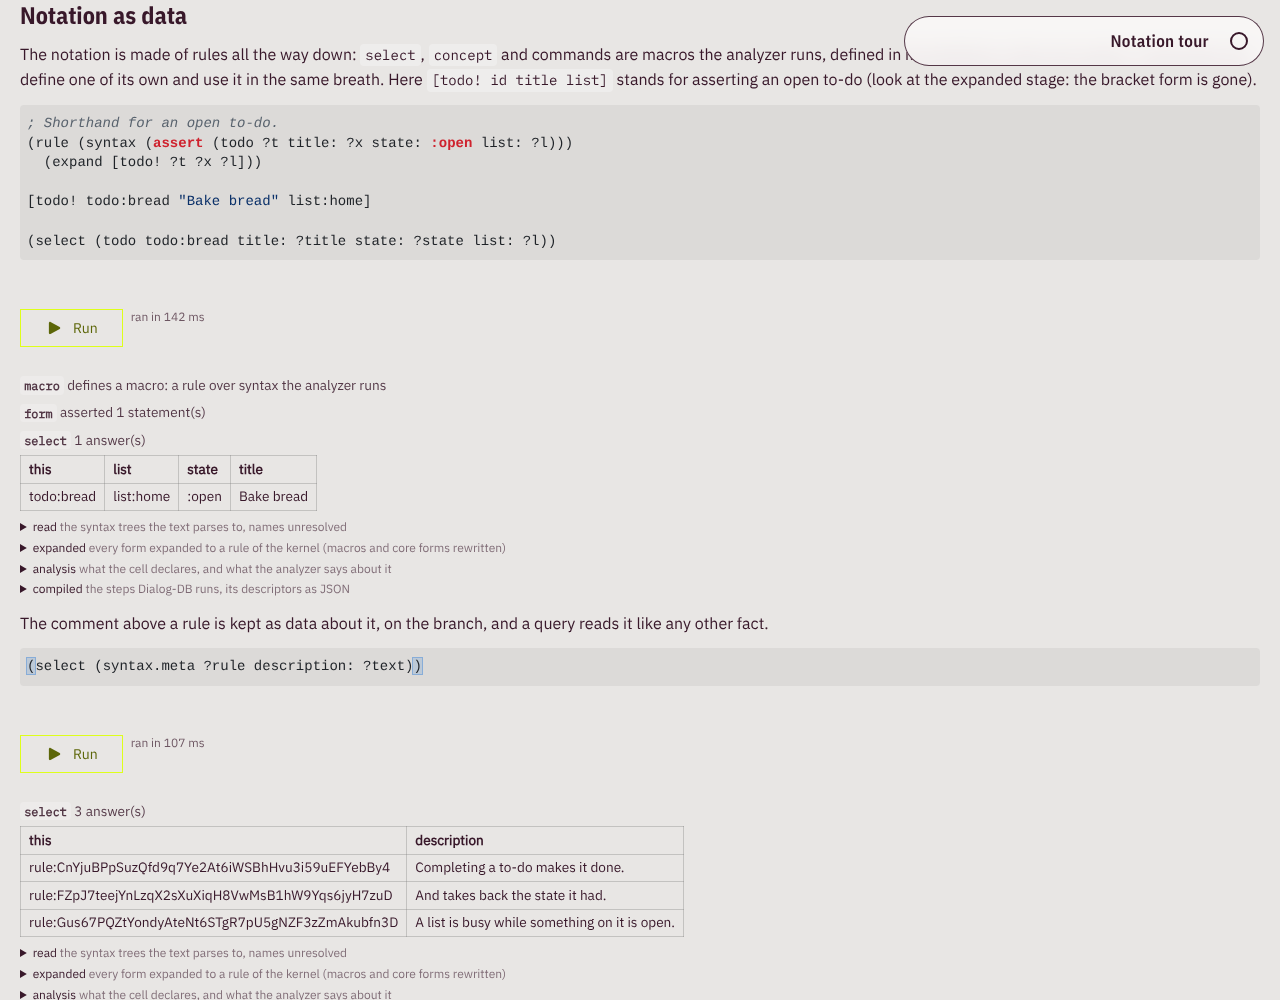
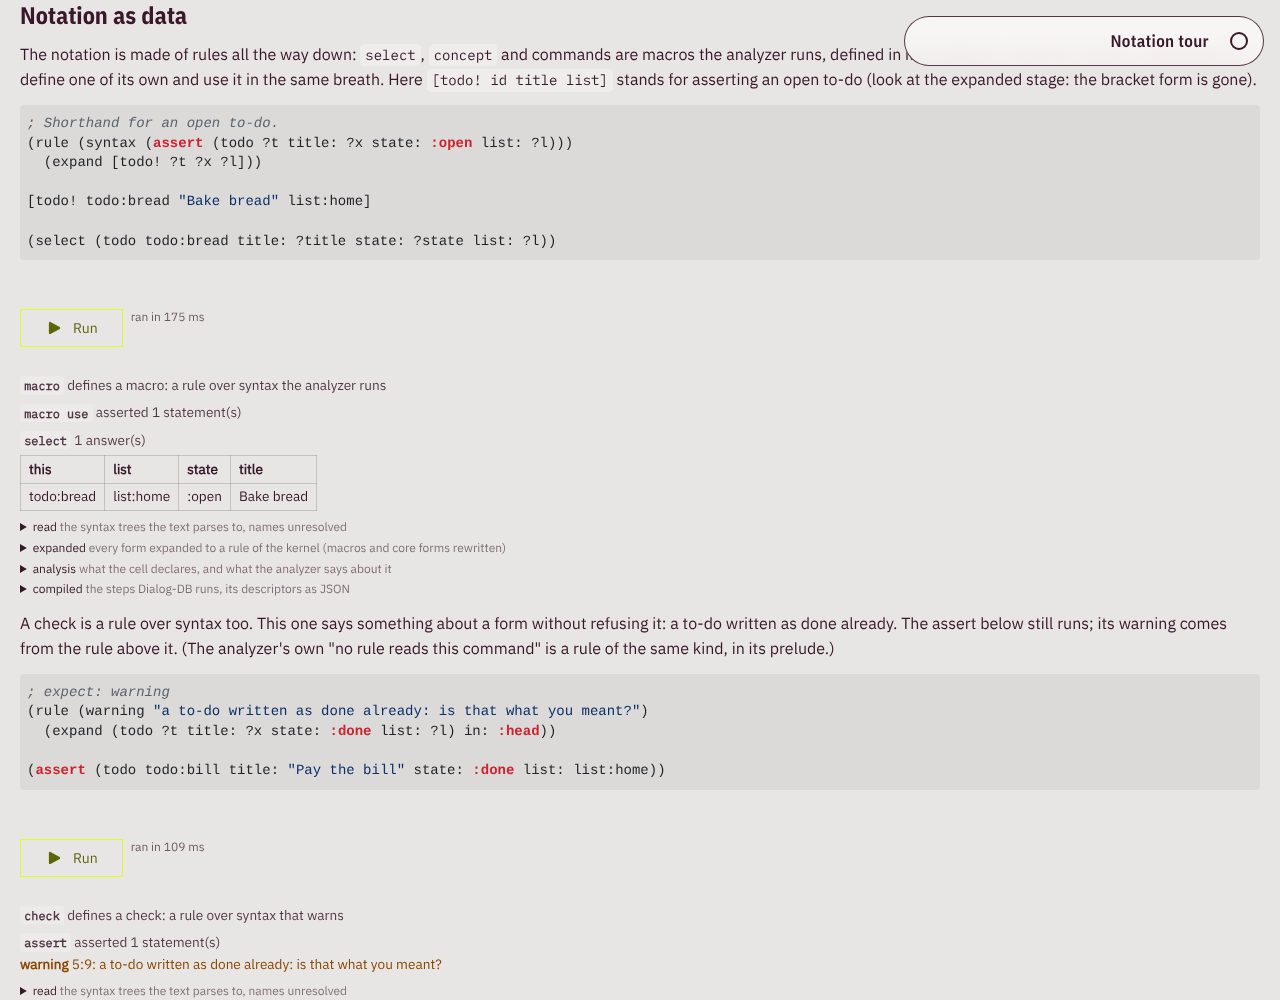
demo(notation): a check written as a rule, and trees as data printed
The tour gains a cell whose rule over syntax warns about an assert
without refusing it, as the analyzer's own "no rule reads this
command" does; a form's warnings are shown under it. The read stage
prints each tree as data as the notation writes a record, rather than
as `_`, and a bracketed macro use is named as one.

diff --git a/rust/tonk-analyzer/src/notation/tour.rs b/rust/tonk-analyzer/src/notation/tour.rs
@@ -85,6 +85,9 @@ pub struct FormOutcome {
     /// Why the notation refused it.
     #[serde(skip_serializing_if = "Option::is_none")]
     pub refused: Option<Refusal>,
+    /// What the analyzer warns about it, which refuses nothing.
+    #[serde(skip_serializing_if = "Vec::is_empty")]
+    pub warnings: Vec<String>,
 }
 
 /// A refusal and where it is.
@@ -165,15 +168,24 @@ fn kind_of(tree: &Syntax) -> String {
             }
         }
         Some(head) => head.to_owned(),
+        None if matches!(tree, Syntax::Tuple(_)) => "macro use".into(),
         None => "form".into(),
     }
 }
 
 /// The diagnostics of `checked` as text, and the refusal of each form.
-fn diagnostics(checked: &Checked, text: &str) -> (String, BTreeMap<usize, Refusal>) {
+fn diagnostics(
+    checked: &Checked,
+    text: &str,
+) -> (
+    String,
+    BTreeMap<usize, Refusal>,
+    BTreeMap<usize, Vec<String>>,
+) {
     let lines: Vec<&str> = text.lines().collect();
     let mut out = String::new();
     let mut refused = BTreeMap::new();
+    let mut warned: BTreeMap<usize, Vec<String>> = BTreeMap::new();
     for diagnostic in &checked.diagnostics {
         let severity = match diagnostic.severity() {
             Severity::Error => "refused",
@@ -188,6 +200,16 @@ fn diagnostics(checked: &Checked, text: &str) -> (String, BTreeMap<usize, Refusa
             _ => "-".into(),
         };
         out.push_str(&format!("{severity} at {place}: {}\n", diagnostic.message));
+        if diagnostic.severity() == Severity::Warning {
+            let at = match diagnostic.path.first() {
+                Some(dialog_notation::Segment::Item(at)) => *at,
+                _ => 0,
+            };
+            warned
+                .entry(at)
+                .or_default()
+                .push(format!("{place}: {}", diagnostic.message));
+        }
         if diagnostic.severity() == Severity::Error {
             let at = match diagnostic.path.first() {
                 Some(dialog_notation::Segment::Item(at)) => *at,
@@ -209,7 +231,7 @@ fn diagnostics(checked: &Checked, text: &str) -> (String, BTreeMap<usize, Refusa
     if out.is_empty() {
         out.push_str("no diagnostics\n");
     }
-    (out, refused)
+    (out, refused, warned)
 }
 
 fn declarations(checked: &Checked) -> String {
@@ -407,7 +429,7 @@ pub async fn prepare<E: Reader>(branch: &Branch, cell: &Cell, env: &E) -> Prepar
     read.push_str("\n;; each tree as data (Syntax::value), the record the notation keeps it as\n");
     for tree in &parsed.trees {
         match tree.value() {
-            Ok(value) => read.push_str(&format!("{}\n", Syntax::Constant(value))),
+            Ok(value) => read.push_str(&format!("{}\n", said(&value))),
             Err(error) => read.push_str(&format!(";; {error}\n")),
         }
     }
@@ -432,7 +454,7 @@ pub async fn prepare<E: Reader>(branch: &Branch, cell: &Cell, env: &E) -> Prepar
                 .collect()
         },
     });
-    let (diagnosed, refused) = diagnostics(&checked, text);
+    let (diagnosed, refused, warned) = diagnostics(&checked, text);
     answer.stages.push(Stage {
         name: "analysis".into(),
         note: "what the cell declares, and what the analyzer says about it".into(),
@@ -467,6 +489,11 @@ pub async fn prepare<E: Reader>(branch: &Branch, cell: &Cell, env: &E) -> Prepar
                 refused: Some(refusal),
                 ..FormOutcome::default()
             }),
+        }
+    }
+    for (at, warnings) in warned {
+        if at < forms.len() {
+            forms[at].warnings = warnings;
         }
     }
     for (declaration, at) in checked.declarations.iter().zip(&checked.declaration_forms) {
@@ -835,4 +862,23 @@ fn cell(term: &Syntax) -> String {
         Syntax::Constant(dialog_corpus::Value::String(text)) => text.clone(),
         other => other.to_string(),
     }
+}
+
+/// A value as the notation writes it, records and lists taken apart:
+/// `{:operator {:name /select :type :reference} :type :application ...}`.
+fn said(value: &dialog_corpus::Value) -> String {
+    if let Ok(Some(map)) = dialog_notation::data::entries(value) {
+        let mut entries: Vec<(&str, &dialog_corpus::Value)> = map.iter().collect();
+        entries.sort_by_key(|(key, _)| *key);
+        let inner: Vec<String> = entries
+            .into_iter()
+            .map(|(key, value)| format!(":{key} {}", said(value)))
+            .collect();
+        return format!("{{{}}}", inner.join(" "));
+    }
+    if let Ok(Some(items)) = dialog_notation::data::items(value) {
+        let inner: Vec<String> = items.iter().map(said).collect();
+        return format!("[{}]", inner.join(" "));
+    }
+    Syntax::Constant(value.clone()).to_string()
 }

diff --git a/rust/tonk-inspector/src/notation_cell.rs b/rust/tonk-inspector/src/notation_cell.rs
@@ -84,6 +84,9 @@ struct FormOutcome {
     /// Why the notation refused it.
     #[serde(default)]
     refused: Option<Refusal>,
+    /// What the analyzer warns about it.
+    #[serde(default)]
+    warnings: Vec<String>,
 }
 
 #[derive(Deserialize, Default)]
@@ -290,6 +293,12 @@ fn render(answer: &Answer, _with: &str) -> String {
             escape(&form.kind),
             escape(&form.summary)
         ));
+        for warning in &form.warnings {
+            out.push_str(&format!(
+                "<div class=\"notation-warning\"><strong>warning</strong> {}</div>",
+                escape(warning)
+            ));
+        }
         if let Some(refused) = &form.refused {
             let place = match (refused.line, refused.column) {
                 (Some(line), Some(column)) => format!(" at line {line}, column {column}"),
@@ -373,6 +382,7 @@ pub(crate) const CSS: &str = r#"
 .notation-rows th, .notation-rows td { border: 1px solid rgba(127,127,127,.35); padding: .15rem .5rem; text-align: left; }
 .notation-refusal { color: var(--wa-color-danger-on-quiet, #b42318); }
 .notation-refusal pre, .notation-stage pre, .notation-printed, .notation-html-source { white-space: pre-wrap; font-size: .75rem; margin: .25rem 0; }
+.notation-warning { color: var(--wa-color-warning-on-quiet, #93370d); }
 .notation-error { color: var(--wa-color-danger-on-quiet, #b42318); }
 .notation-stages { display: flex; flex-direction: column; gap: .1rem; margin-top: .25rem; }
 .notation-stage summary { cursor: pointer; font-size: .75rem; }

diff --git a/rust/tonk-analyzer/tests/notation_tour.rs b/rust/tonk-analyzer/tests/notation_tour.rs
@@ -74,6 +74,11 @@ async fn every_cell_of_the_tour_runs() {
                 }
             ));
         }
+        if source.contains("; expect: warning")
+            && !answer.forms.iter().any(|form| !form.warnings.is_empty())
+        {
+            failures.push(format!("cell {}: no warning\n{source}\n{json}", at + 1));
+        }
         // A cell that asks something and runs clean answers something.
         for form in &answer.forms {
             if form.refused.is_none()

diff --git a/demo/notation-tour/tour.md b/demo/notation-tour/tour.md
@@ -198,6 +198,16 @@ The notation is made of rules all the way down: `select`, `concept` and commands
 (select (todo todo:bread title: ?title state: ?state list: ?l))
 ```
 
+A check is a rule over syntax too. This one says something about a form without refusing it: a to-do written as done already. The assert below still runs; its warning comes from the rule above it. (The analyzer's own "no rule reads this command" is a rule of the same kind, in its prelude.)
+
+```notation
+; expect: warning
+(rule (warning "a to-do written as done already: is that what you meant?")
+  (expand (todo ?t title: ?x state: :done list: ?l) in: :head))
+
+(assert (todo todo:bill title: "Pay the bill" state: :done list: list:home))
+```
+
 The comment above a rule is kept as data about it, on the branch, and a query reads it like any other fact.
 
 ```notation
